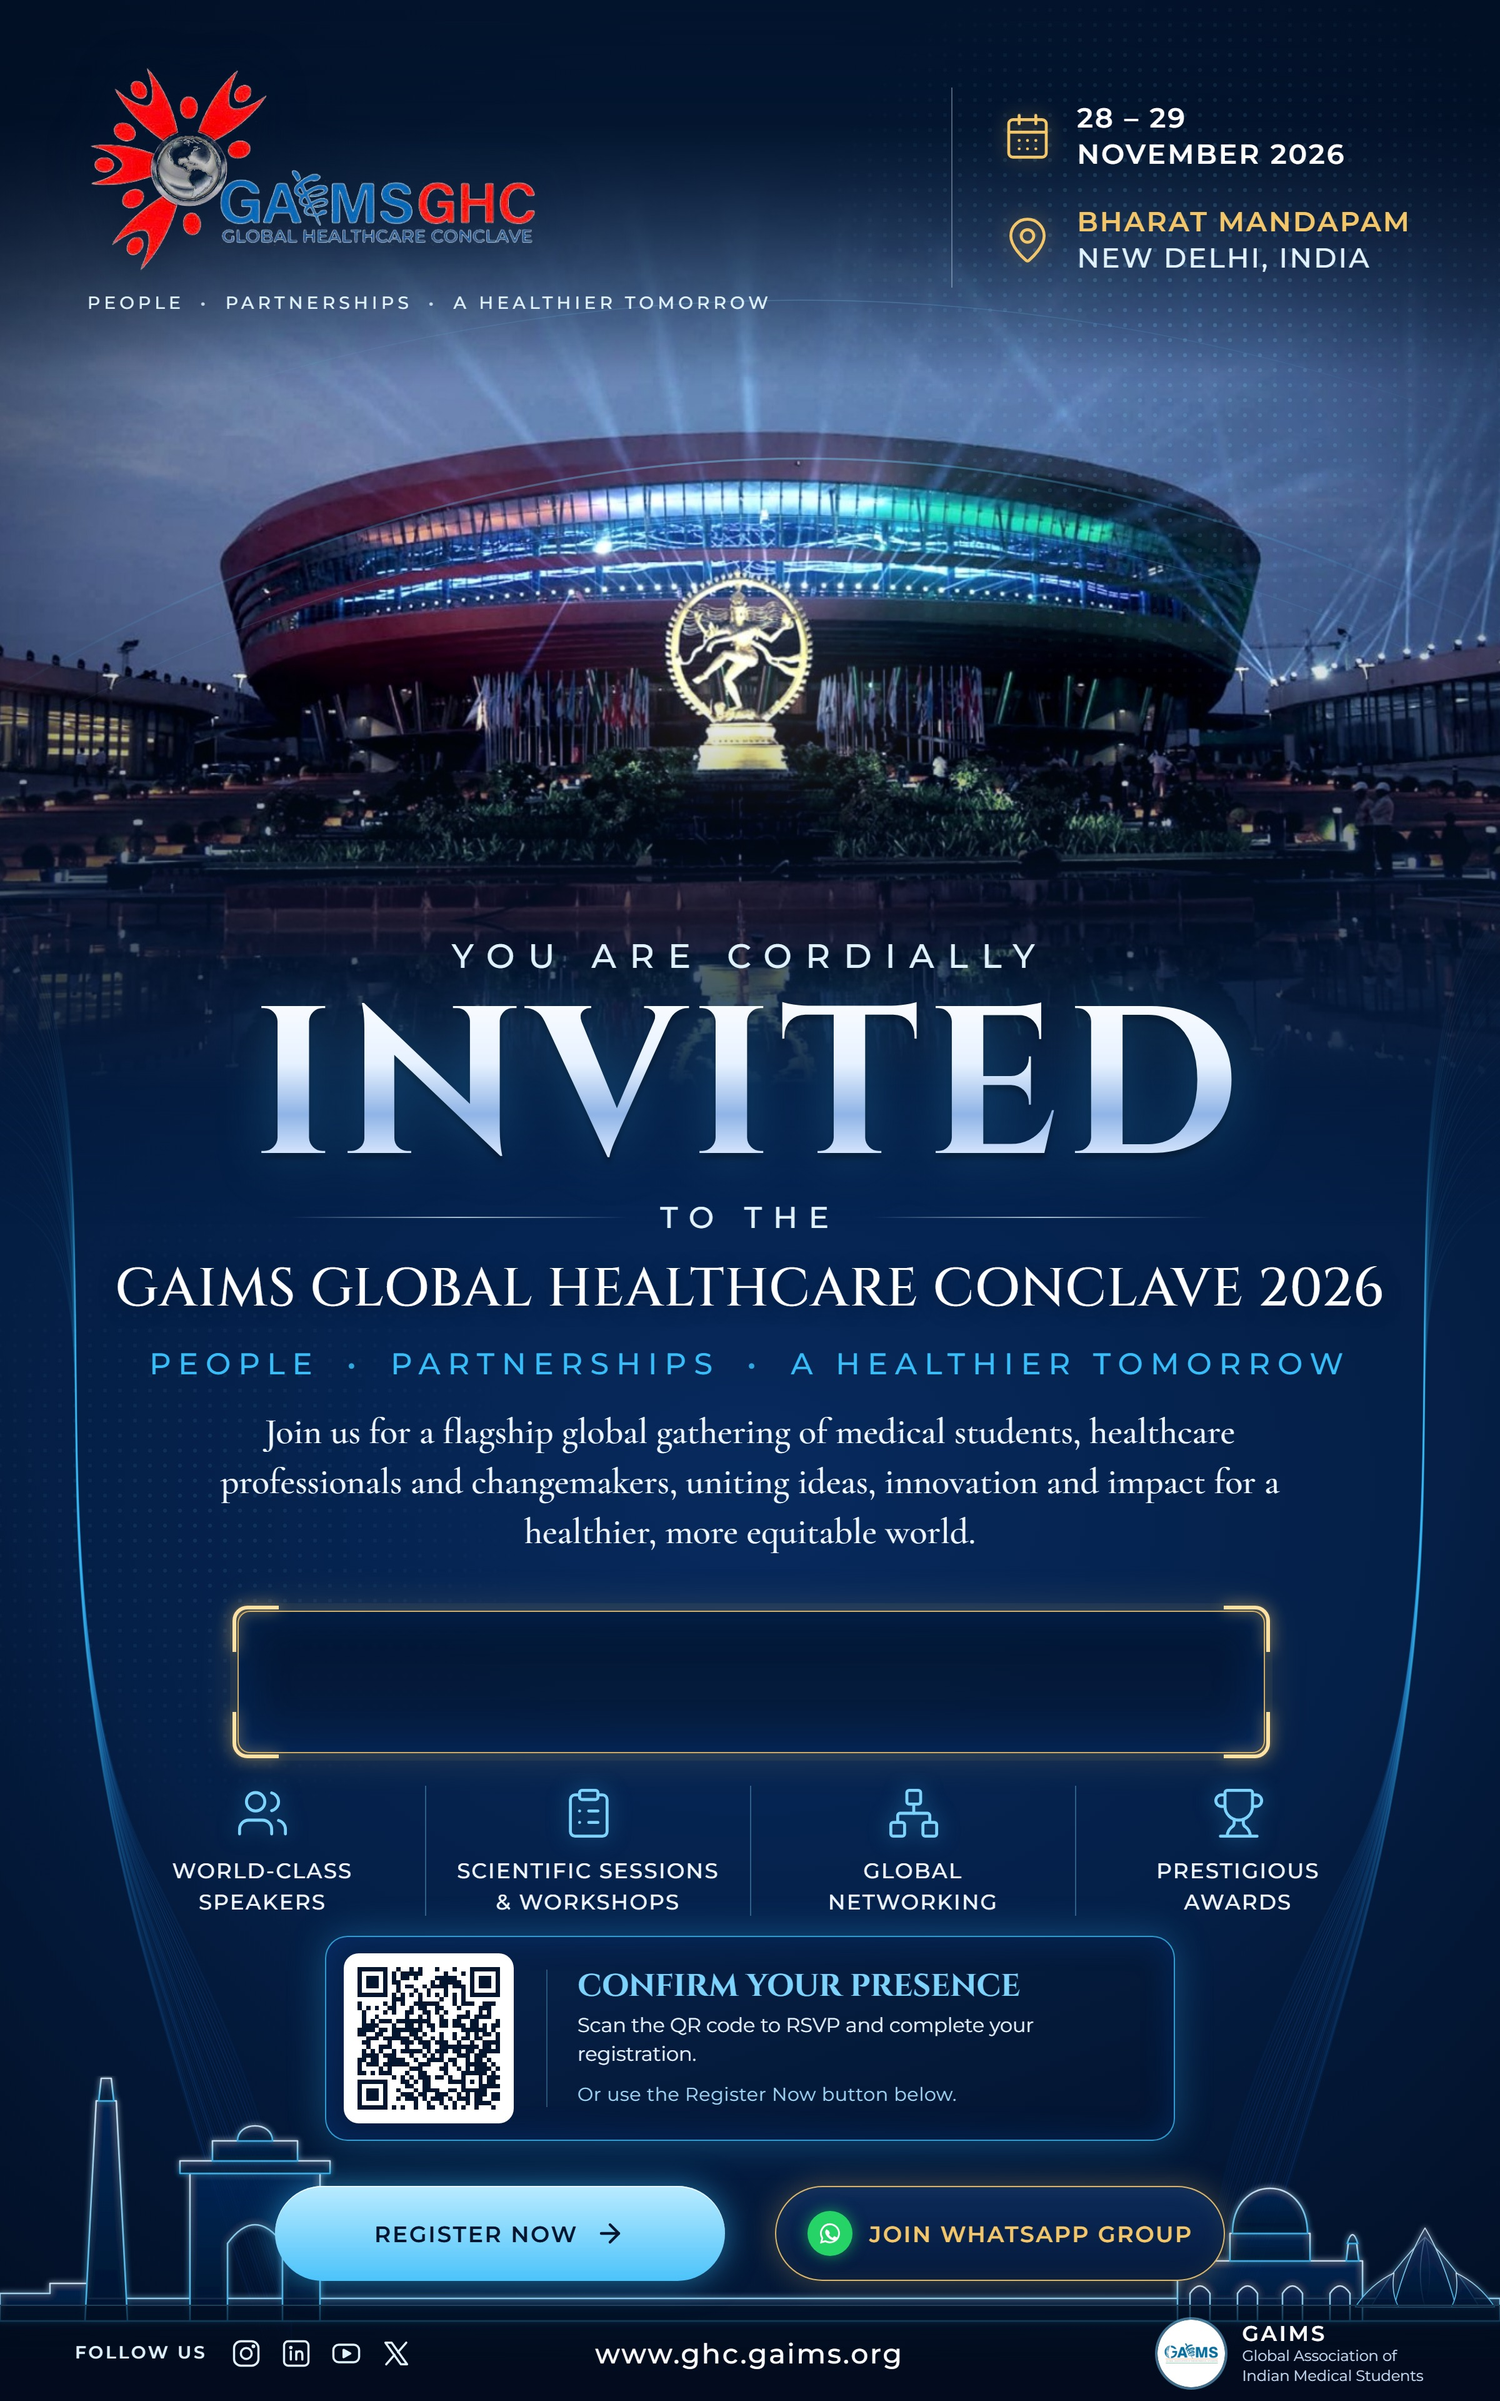
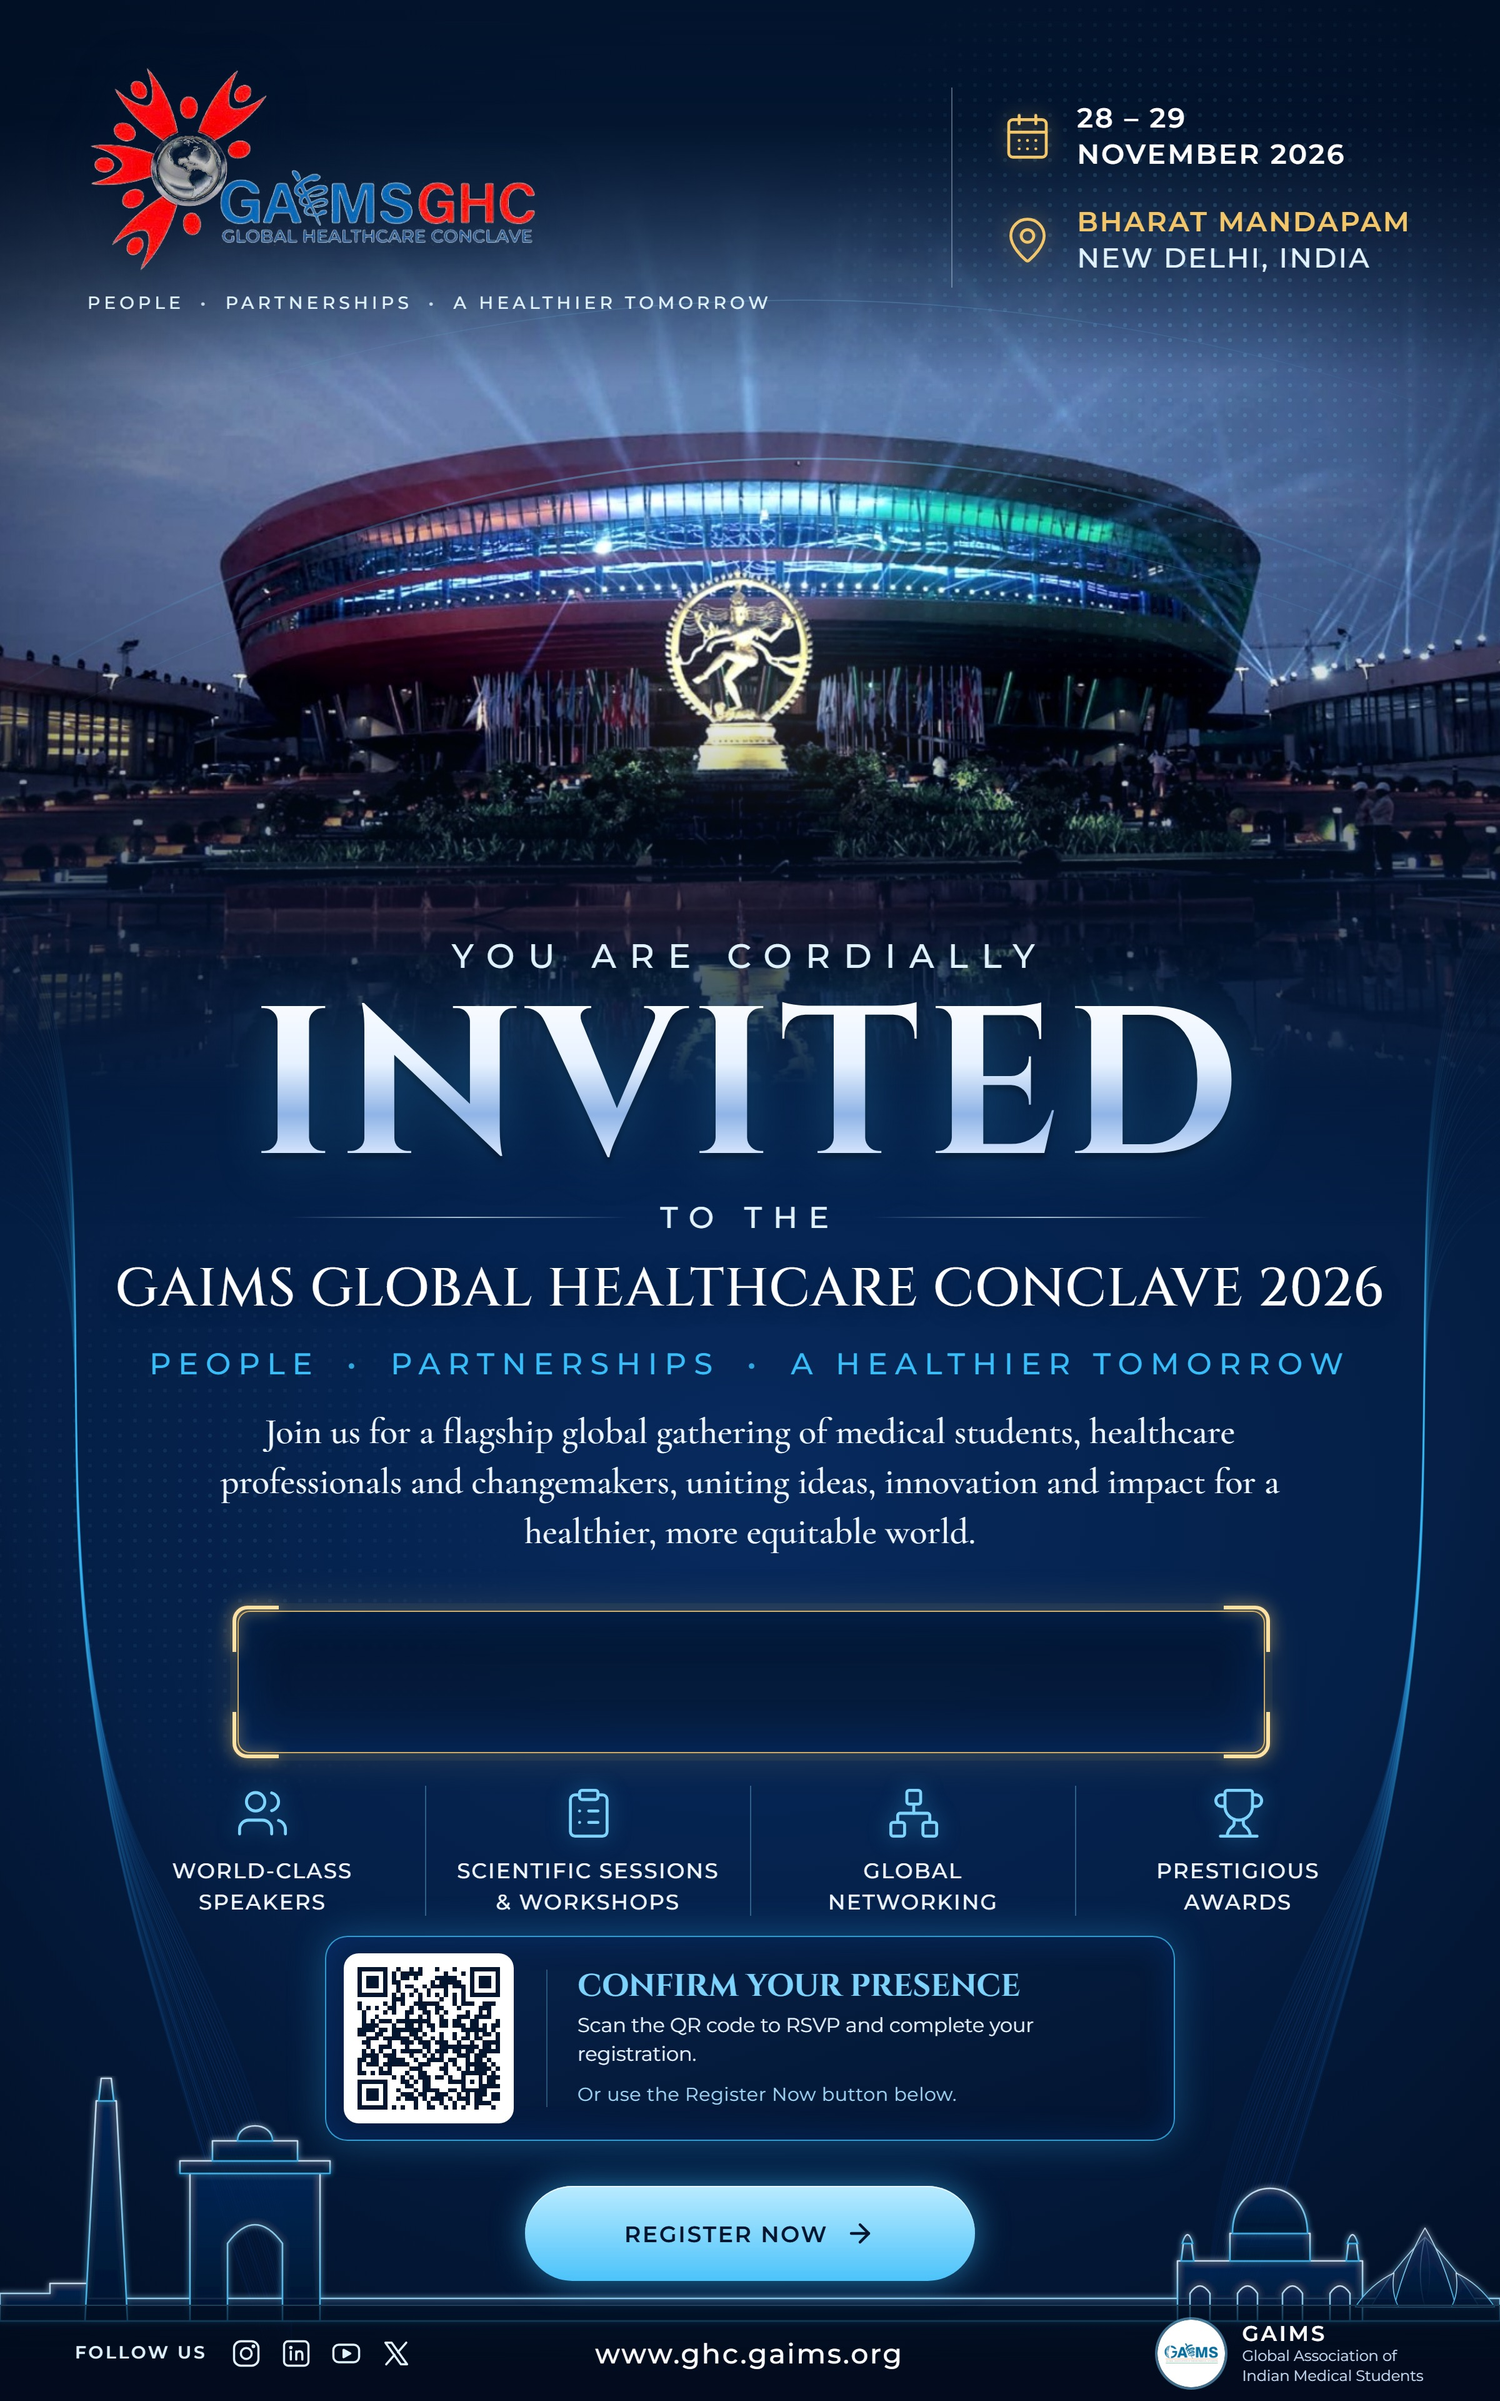
fixed broken whatsapp link

Changed region(s): [[0.4062, 0.9062, 0.8125, 0.9688], [0.1562, 0.9062, 0.375, 0.9688]]

diff --git a/server/services/invitationImageService.js b/server/services/invitationImageService.js
@@ -1,13 +1,13 @@
 const path = require('path');
 const { createCanvas, loadImage, GlobalFonts } = require('@napi-rs/canvas');
 const { EVENT, toJpeg } = require('./delegateEmailService');
-const { getDelegateWhatsappGroupUrl, getRegistrationUrl } = require('../config/links');
+const { getRegistrationUrl } = require('../config/links');
 
 // The conclave invitation email is the GHC 2026 invitation poster (assets/email/invitation-poster.jpg), exported
 // from the admin's Invitation Poster page with "Email artwork" selected. Its QR code already points to the Clirnet
 // registration page. The poster is cut into horizontal bands sent as embedded (cid) images, like the registration
-// confirmation email; the guest's name is painted into the gold nameplate, and the QR panel and the two buttons
-// are linked images. If the poster is re-exported, keep the 1200 x 1920 layout so the band positions below hold.
+// confirmation email; the guest's name is painted into the gold nameplate, and the QR panel and the Register Now
+// button are linked images. If the poster is re-exported, keep the 1200 x 1920 layout so the band positions below hold.
 const ASSETS = path.join(__dirname, '..', 'assets');
 const POSTER = path.join(ASSETS, 'email', 'invitation-poster.jpg');
 GlobalFonts.registerFromPath(path.join(ASSETS, 'fonts', 'Cinzel.ttf'), 'GHCCinzel');
@@ -22,7 +22,7 @@ const BANDS = {
   top: [0, 1260], // header, Bharat Mandapam, headline and invitation copy
   name: [1260, 1425], // gold nameplate
   info: [1425, 1725], // highlights and the QR registration panel
-  buttons: [1725, 1830], // Register Now | Join WhatsApp Group, split at the centre
+  button: [1725, 1830], // Register Now
   bottom: [1830, 1920], // footer
 };
 const NAMEPLATE = { x: 190, y: 1288, w: 820, h: 112 };
@@ -50,10 +50,7 @@ const getStaticBands = () => {
       .then(async (poster) => ({
         top: await toJpeg(cropBand(poster, BANDS.top)),
         info: await toJpeg(cropBand(poster, BANDS.info)),
-        buttons: await Promise.all([
-          toJpeg(cropBand(poster, BANDS.buttons, [0, DESIGN_WIDTH / 2])),
-          toJpeg(cropBand(poster, BANDS.buttons, [DESIGN_WIDTH / 2, DESIGN_WIDTH])),
-        ]),
+        button: await toJpeg(cropBand(poster, BANDS.button)),
         bottom: await toJpeg(cropBand(poster, BANDS.bottom)),
       }))
       .catch((error) => {
@@ -127,8 +124,7 @@ const buildInvitationEmail = async ({ fullName }) => {
     { filename: 'ghc-invite-top.jpg', content: statics.top, contentType: 'image/jpeg', cid: 'inv-top' },
     { filename: 'ghc-invite-name.jpg', content: nameBand, contentType: 'image/jpeg', cid: 'inv-name' },
     { filename: 'ghc-invite-info.jpg', content: statics.info, contentType: 'image/jpeg', cid: 'inv-info' },
-    { filename: 'ghc-invite-register.jpg', content: statics.buttons[0], contentType: 'image/jpeg', cid: 'inv-register' },
-    { filename: 'ghc-invite-whatsapp.jpg', content: statics.buttons[1], contentType: 'image/jpeg', cid: 'inv-whatsapp' },
+    { filename: 'ghc-invite-register.jpg', content: statics.button, contentType: 'image/jpeg', cid: 'inv-register' },
     { filename: 'ghc-invite-bottom.jpg', content: statics.bottom, contentType: 'image/jpeg', cid: 'inv-bottom' },
   ];
   const variables = {
@@ -137,15 +133,13 @@ const buildInvitationEmail = async ({ fullName }) => {
     venue: escapeHtml(EVENT.venue),
     registerLink: escapeHtml(getRegistrationUrl()),
     eventUrl: escapeHtml(EVENT.url),
-    whatsappLink: escapeHtml(getDelegateWhatsappGroupUrl()),
     helpEmails: escapeHtml([EVENT.helpTo, ...EVENT.helpCc].join(', ')),
     helpUrl: escapeHtml(`mailto:${EVENT.helpTo}?subject=${encodeURIComponent('GHC 2026 Invitation Query')}`),
     topHeight: shown(BANDS.top[1] - BANDS.top[0]),
     nameHeight: shown(BANDS.name[1] - BANDS.name[0]),
     infoHeight: shown(BANDS.info[1] - BANDS.info[0]),
-    buttonsHeight: shown(BANDS.buttons[1] - BANDS.buttons[0]),
+    buttonHeight: shown(BANDS.button[1] - BANDS.button[0]),
     bottomHeight: shown(BANDS.bottom[1] - BANDS.bottom[0]),
-    buttonWidth: EMAIL_WIDTH / 2,
   };
   return { attachments, variables };
 };

diff --git a/server/assets/email/conclave-invitation.html b/server/assets/email/conclave-invitation.html
@@ -9,7 +9,7 @@
 <title>You are cordially invited — GAIMS Global Healthcare Conclave 2026</title>
 </head>
 <body style="margin:0; padding:0; background:#020c1e;">
-<!-- ghc-conclave-invitation-v10 -->
+<!-- ghc-conclave-invitation-v11 -->
 <!-- (bump this version marker when changing this file so existing servers pick up the new layout) -->
 <!-- The invitation poster cut into bands (services/invitationImageService.js); the name band is personalised. -->
 <div style="display:none; max-height:0; overflow:hidden; opacity:0; color:#020c1e;">{{name}}, you are cordially invited to the GAIMS Global Healthcare Conclave 2026 · {{eventDates}} · {{venue}}</div>
@@ -34,12 +34,7 @@
         </tr>
         <tr>
           <td style="padding:0; line-height:0; font-size:0;">
-            <table role="presentation" width="100%" cellpadding="0" cellspacing="0" border="0">
-              <tr>
-                <td width="{{buttonWidth}}" style="width:50%; padding:0; line-height:0; font-size:0;"><a href="{{registerLink}}" target="_blank"><img src="cid:inv-register" width="{{buttonWidth}}" height="{{buttonsHeight}}" alt="Register Now" style="display:block; width:100%; height:auto; border:0;"></a></td>
-                <td width="{{buttonWidth}}" style="width:50%; padding:0; line-height:0; font-size:0;"><a href="{{whatsappLink}}" target="_blank"><img src="cid:inv-whatsapp" width="{{buttonWidth}}" height="{{buttonsHeight}}" alt="Join WhatsApp Group" style="display:block; width:100%; height:auto; border:0;"></a></td>
-              </tr>
-            </table>
+            <a href="{{registerLink}}" target="_blank"><img src="cid:inv-register" width="640" height="{{buttonHeight}}" alt="Register Now" style="display:block; width:100%; max-width:640px; height:auto; border:0;"></a>
           </td>
         </tr>
         <tr>
@@ -51,7 +46,7 @@
           <td style="padding:20px 28px 22px 28px; background:#020c1e; border-top:1px solid #1b3358; font-family:Arial, Helvetica, sans-serif; font-size:12px; line-height:1.7; color:#94a3b8; text-align:center;">
             Invitation for <strong style="color:#F4C66A;">{{name}}</strong><br>
             GAIMS Global Healthcare Conclave 2026 · {{eventDates}} · {{venue}}<br>
-            <a href="{{registerLink}}" target="_blank" style="color:#7dd3fc; text-decoration:none;">Register now</a> &nbsp;·&nbsp; <a href="{{whatsappLink}}" target="_blank" style="color:#4ade80; text-decoration:none;">Join the WhatsApp group</a><br>
+            <a href="{{registerLink}}" target="_blank" style="color:#7dd3fc; text-decoration:none;">Register now</a><br>
             Need help? Write to <a href="{{helpUrl}}" style="color:#7dd3fc; text-decoration:none;">{{helpEmails}}</a>
           </td>
         </tr>

diff --git a/client/src/components/invitation-poster/PosterSections.jsx b/client/src/components/invitation-poster/PosterSections.jsx
@@ -127,20 +127,12 @@ export function RegistrationQR({ url, showButton = true }) {
   );
 }
 
-// Email variant only: the two calls to action, each half is cut into its own linked image.
+// Email variant only: the Register Now call to action (its band is a linked image in the email).
 export function EmailActions() {
   return (
     <div className="gip-actions">
       <span className="gip-action gip-action-register">
         REGISTER NOW <ArrowRight size={24} strokeWidth={2.2} />
-      </span>
-      <span className="gip-action gip-action-whatsapp">
-        <span className="gip-wa-mark">
-          <svg viewBox="0 0 24 24" width="22" height="22" aria-hidden="true">
-            <path fill="#fff" d="M12 3.2a8.7 8.7 0 0 0-7.5 13.1L3.3 20.8l4.6-1.2A8.7 8.7 0 1 0 12 3.2Zm0 1.6a7.1 7.1 0 1 1-3.6 13.2l-.3-.2-2.7.7.7-2.6-.2-.3A7.1 7.1 0 0 1 12 4.8Zm-2.6 3.6c-.2 0-.5 0-.7.3-.2.3-.9.9-.9 2.2s.9 2.5 1 2.7c.1.2 1.8 2.8 4.4 3.8 2.2.9 2.6.7 3.1.6.5 0 1.5-.6 1.7-1.2.2-.6.2-1.1.2-1.2l-.5-.3-1.7-.8c-.2-.1-.4-.1-.6.1l-.8 1c-.1.2-.3.2-.5.1a5.8 5.8 0 0 1-2.9-2.5c-.2-.4.2-.4.6-1.2.1-.2 0-.3 0-.4l-.8-1.9c-.2-.5-.4-.4-.6-.4h-.5Z" />
-          </svg>
-        </span>
-        JOIN WHATSAPP GROUP
       </span>
     </div>
   );

diff --git a/client/src/components/invitation-poster/invitationPoster.css b/client/src/components/invitation-poster/invitationPoster.css
@@ -519,7 +519,7 @@
   color: #9fd4f5;
 }
 
-/* Two buttons, one per half of the poster, so each half can be its own linked image in the email. */
+/* The Register Now button, centred above the footer. */
 .gip-actions {
   position: absolute;
   z-index: 2;
@@ -546,27 +546,8 @@
 }
 
 .gip-action-register {
-  left: 220px;
+  left: 420px;
   color: var(--gip-navy);
   background: linear-gradient(180deg, #b9ebff 0%, #4cc3fa 100%);
   box-shadow: 0 0 26px rgba(56, 189, 248, 0.55), inset 0 1px 0 rgba(255, 255, 255, 0.7);
-}
-
-.gip-action-whatsapp {
-  left: 620px;
-  color: var(--gip-gold);
-  background: linear-gradient(180deg, #0b2a5a 0%, #051a3c 100%);
-  border: 1.5px solid rgba(244, 198, 106, 0.9);
-  box-shadow: 0 0 24px rgba(244, 198, 106, 0.28), inset 0 0 18px rgba(244, 198, 106, 0.08);
-}
-
-.gip-wa-mark {
-  width: 36px;
-  height: 36px;
-  border-radius: 50%;
-  background: #25d366;
-  display: inline-flex;
-  align-items: center;
-  justify-content: center;
-  box-shadow: 0 0 12px rgba(37, 211, 102, 0.6);
 }

diff --git a/client/src/admin/pages/Invites.jsx b/client/src/admin/pages/Invites.jsx
@@ -204,7 +204,7 @@ function Invites({ api }) {
         <h1>Invites</h1>
         <p className="admin-muted">
           Upload an Excel (.xlsx) or CSV file of names and emails, then send everyone the formal conclave invitation.
-          The email addresses each person by name and includes Register Now and Join WhatsApp Group buttons.
+          The email addresses each person by name and includes a QR code and a Register Now button.
           Email addresses already on the list are skipped, so nobody is added twice.
         </p>
         <div style={{ display: "flex", gap: "0.6rem", flexWrap: "wrap", marginTop: "1rem" }}>

diff --git a/client/src/components/invitation-poster/InvitationPoster.jsx b/client/src/components/invitation-poster/InvitationPoster.jsx
@@ -21,7 +21,7 @@ import { DEFAULT_POSTER_CONTENT } from "./posterConfig";
 
 // Fixed 1200 x 1800 design canvas. Callers scale it for preview; exports render it at full size.
 // variant="email" is the artwork for the invitation email (server/assets/email/invitation-poster.jpg):
-// taller, with Register / WhatsApp buttons, and the QR panel without its own button.
+// taller, with a Register Now button, and the QR panel without its own button.
 const InvitationPoster = forwardRef(function InvitationPoster({ content = DEFAULT_POSTER_CONTENT, variant = "print", style }, ref) {
   const isEmail = variant === "email";
   return (

diff --git a/server/config/links.js b/server/config/links.js
@@ -1,6 +1,6 @@
 // Public links used in invitation emails. Override on the server with the matching environment variables.
 const getDelegateWhatsappGroupUrl = () =>
-  process.env.DELEGATE_WHATSAPP_GROUP_URL || 'https://chat.whatsapp.com/F2LpwX1XqJhCHW0OZvmxWF';
+  process.env.DELEGATE_WHATSAPP_GROUP_URL || 'https://chat.whatsapp.com/IbiHwOt9HJY6GbldT6DTwa';
 
 const getRegistrationUrl = () =>
   process.env.REGISTRATION_URL || 'https://mc.clirnet.com/mastercast/connect/D0921-Conclave-1';
